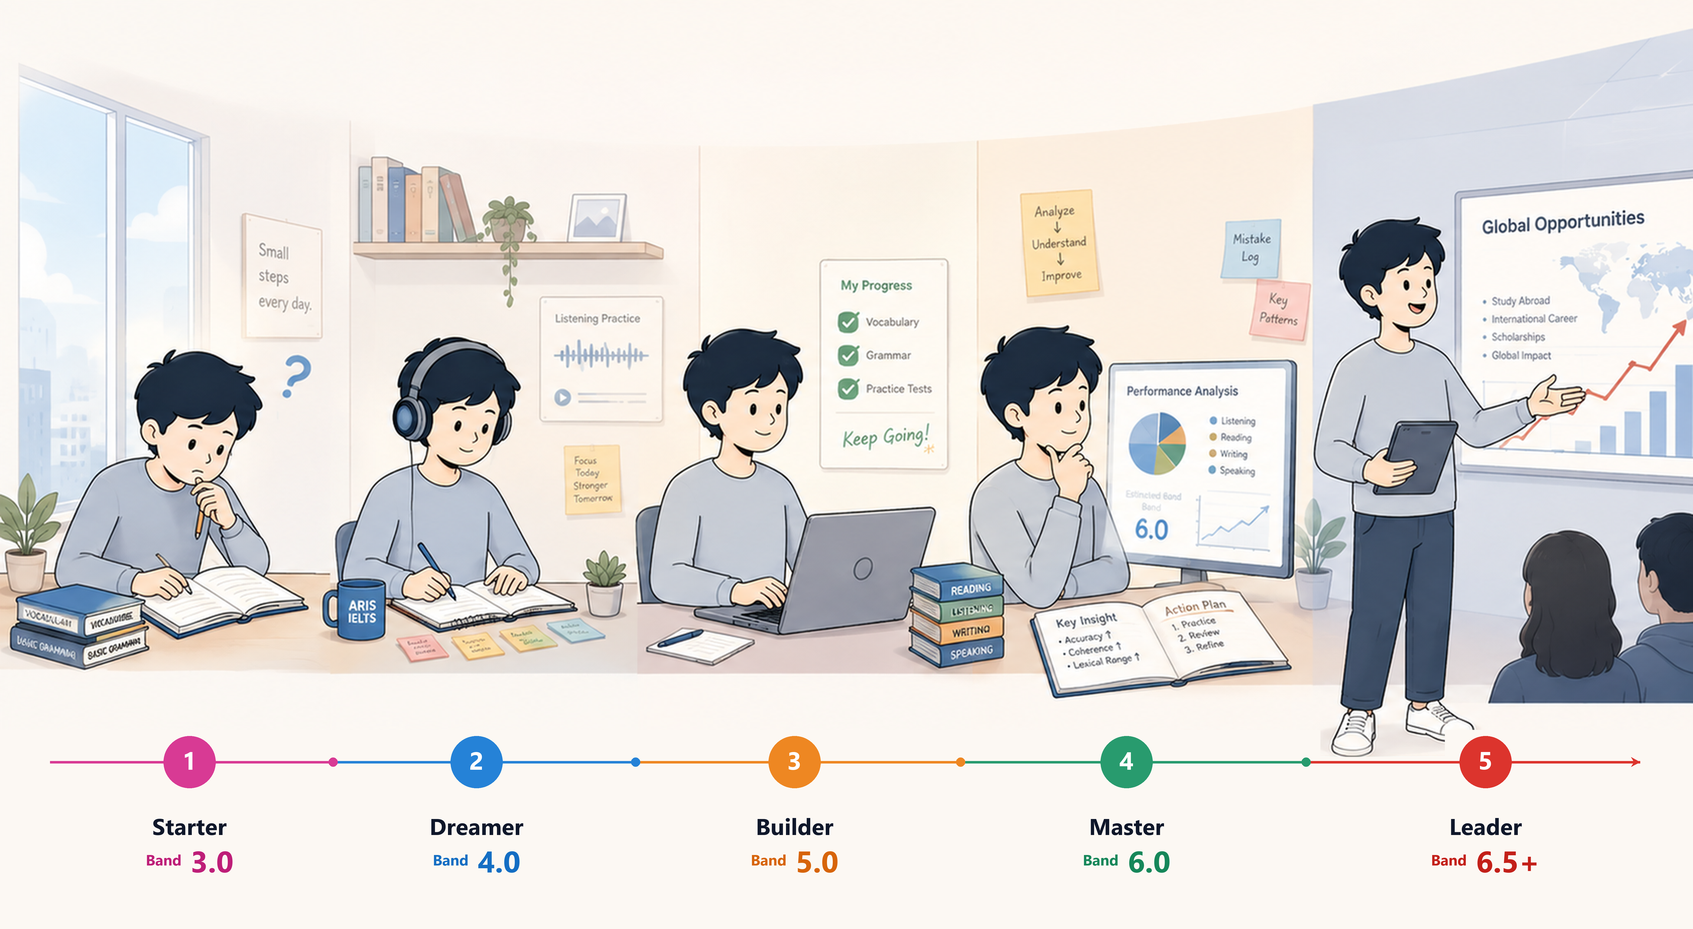
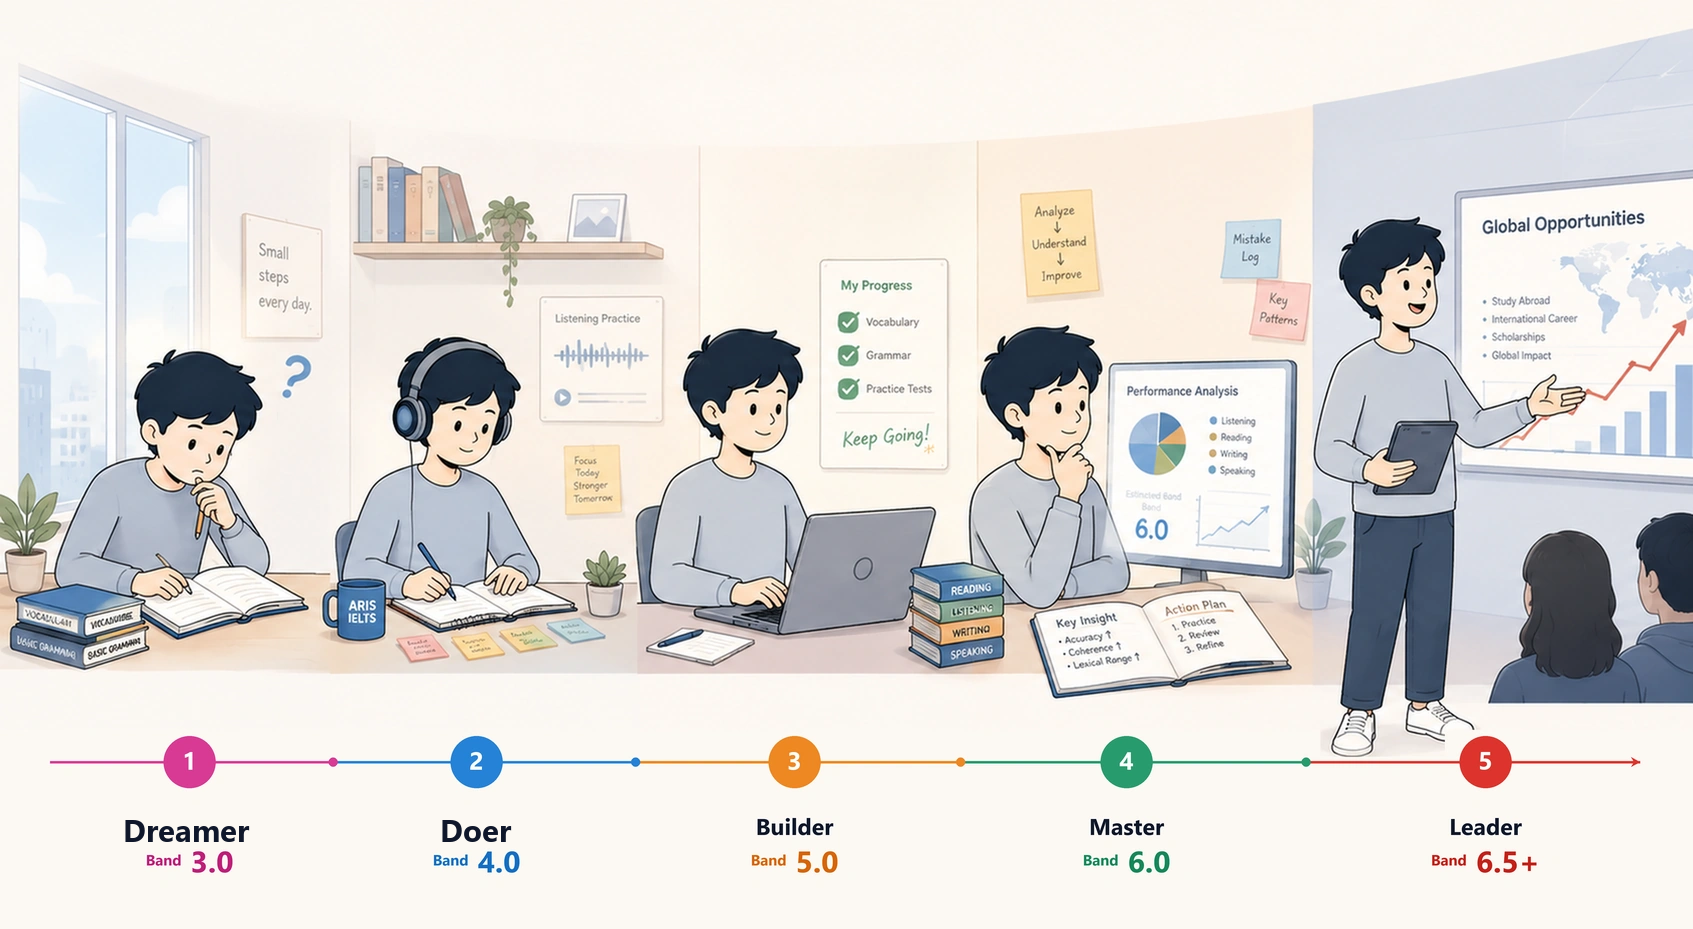
g

diff --git a/nextband/src/pages/public/PublicHomePage.tsx b/nextband/src/pages/public/PublicHomePage.tsx
@@ -30,7 +30,7 @@ export default function PublicHomePage() {
   const navigate = useNavigate();
 
   return (
-    <div className="flex flex-col">
+    <div className="flex flex-col bg-[#FBF9F5]">
       <SEO
         title="ARIS — Học Tiếng Anh Từ Bản Chất"
         description="ARIS — Học tiếng Anh từ bản chất. Không học mẹo. Không học thuộc bài mẫu. Định vị chính xác năng lực và bóc tách từng lỗi sai để đạt điểm IELTS mong muốn."
@@ -39,20 +39,25 @@ export default function PublicHomePage() {
       {/* ========================================================================= */}
       {/* SECTION 1: HERO SECTION                                                   */}
       {/* ========================================================================= */}
-      <section className="relative overflow-hidden pt-14 pb-20 sm:pt-24 sm:pb-32 border-b border-border/80 bg-gradient-to-br from-background via-background to-[#002147]/[0.03]">
-        <div className="mx-auto max-w-7xl px-4 sm:px-6 lg:px-8">
+      <section className="relative overflow-hidden pt-14 pb-20 sm:pt-20 sm:pb-28 border-b border-border/80 bg-[radial-gradient(ellipse_at_top_right,rgba(0,33,71,0.07)_0%,transparent_50%),radial-gradient(ellipse_at_bottom_left,rgba(220,38,38,0.05)_0%,transparent_45%)]">
+        {/* Soft Ambient Blur Spots */}
+        <div className="absolute top-10 right-10 w-96 h-96 bg-brand-blue/5 rounded-full blur-3xl pointer-events-none" />
+        <div className="absolute bottom-10 left-10 w-80 h-80 bg-brand-red/5 rounded-full blur-3xl pointer-events-none" />
+
+        <div className="mx-auto max-w-7xl px-4 sm:px-6 lg:px-8 relative z-10">
           <div className="grid grid-cols-1 lg:grid-cols-12 gap-12 lg:gap-10 items-center">
             {/* Left: Headline, Subheadline & Primary Action */}
             <div className="lg:col-span-7 space-y-7 text-left">
-              <div className="inline-flex items-center gap-2 px-4 py-1.5 rounded-full bg-brand-red-soft text-brand-red border border-brand-red/20 text-xs sm:text-sm font-extrabold uppercase tracking-wider">
+              <div className="inline-flex items-center gap-2 px-4 py-1.5 rounded-full bg-brand-red-soft text-brand-red border border-brand-red/20 text-xs sm:text-sm font-extrabold uppercase tracking-wider shadow-xs">
                 <GraduationCap className="h-4 w-4" />
                 <span>Học Viện ARIS</span>
               </div>
 
               <h1 className="text-4xl sm:text-5xl lg:text-6xl xl:text-[62px] font-black text-foreground tracking-tight leading-[1.12]">
                 Học tiếng Anh{" "}
-                <span className="text-brand-red underline decoration-brand-red/30 underline-offset-8">
-                  từ bản chất
+                <span className="relative inline-block text-brand-red font-black">
+                  <span className="relative z-10">từ bản chất</span>
+                  <span className="absolute left-0 right-0 bottom-2 h-3.5 bg-brand-red/15 -rotate-1 rounded-sm -z-0" />
                 </span>
                 .
                 <br />
@@ -70,7 +75,7 @@ export default function PublicHomePage() {
                 <Button
                   size="lg"
                   onClick={() => navigate("/assessment")}
-                  className="w-full sm:w-auto rounded-2xl px-6 sm:px-8 h-auto min-h-14 py-3 sm:py-0 font-extrabold text-base sm:text-lg bg-brand-red hover:bg-brand-red-hover text-brand-red-foreground shadow-sm gap-2.5 whitespace-normal text-center"
+                  className="w-full sm:w-auto rounded-2xl px-6 sm:px-8 h-auto min-h-14 py-3 sm:py-0 font-extrabold text-base sm:text-lg bg-brand-red hover:bg-brand-red-hover text-brand-red-foreground shadow-lg shadow-brand-red/20 gap-2.5 whitespace-normal text-center transition-all"
                 >
                   <span>Đánh giá năng lực miễn phí</span>
                   <ArrowRight className="h-5 w-5 shrink-0" />
@@ -80,7 +85,7 @@ export default function PublicHomePage() {
                   size="lg"
                   variant="outline"
                   onClick={() => navigate("/academic-system")}
-                  className="w-full sm:w-auto rounded-2xl px-6 sm:px-8 h-auto min-h-14 py-3 sm:py-0 font-bold text-base sm:text-lg border-2 border-[#002147]/20 hover:bg-[#002147]/5 text-foreground whitespace-normal text-center"
+                  className="w-full sm:w-auto rounded-2xl px-6 sm:px-8 h-auto min-h-14 py-3 sm:py-0 font-bold text-base sm:text-lg border-2 border-[#002147]/20 bg-background/80 hover:bg-[#002147]/5 text-foreground whitespace-normal text-center shadow-xs"
                 >
                   Khám phá hệ thống học thuật
                 </Button>
@@ -104,67 +109,100 @@ export default function PublicHomePage() {
             </div>
 
             {/* Right: 3-Question Framework Card */}
-            <div className="lg:col-span-5">
-              <div className="relative mx-auto max-w-md lg:max-w-none rounded-3xl border-2 border-[#002147]/15 bg-card p-7 sm:p-9 shadow-md space-y-6">
-                <div className="space-y-1.5 border-b border-border/70 pb-4">
-                  <span className="text-xs font-mono uppercase tracking-widest text-brand-blue font-extrabold">
-                    Khung Đào Tạo ARIS
+            <div className="lg:col-span-5 relative">
+              <div className="relative mx-auto max-w-md lg:max-w-none rounded-3xl border-2 border-white/80 bg-card/90 backdrop-blur-md p-7 sm:p-8 shadow-xl shadow-blue-950/5 space-y-5">
+                <div className="flex items-center justify-between border-b border-border/70 pb-4">
+                  <div className="space-y-1">
+                    <span className="text-xs font-mono uppercase tracking-widest text-brand-blue font-extrabold">
+                      Khung Đào Tạo ARIS
+                    </span>
+                    <h4 className="font-black text-foreground text-lg sm:text-xl">
+                      3 Trụ Cột Định Hình Tiến Bộ
+                    </h4>
+                  </div>
+                  <span className="px-3 py-1 rounded-xl bg-blue-50 text-brand-blue border border-blue-200/80 text-xs font-black">
+                    ARIS-7™
                   </span>
-                  <h4 className="font-black text-foreground text-lg sm:text-xl">
-                    3 Câu Hỏi Định Hình Sự Tiến Bộ
-                  </h4>
                 </div>
 
-                <div className="space-y-4">
-                  <div className="p-4 rounded-2xl border border-[#002147]/15 bg-[#002147]/[0.03] space-y-1.5 text-left">
-                    <div className="flex items-center gap-2.5 text-base font-extrabold text-foreground">
-                      <span className="h-7 w-7 rounded-xl bg-[#002147] text-white font-mono text-xs flex items-center justify-center font-black">
-                        1
-                      </span>
-                      <span>Bạn đang ở đâu?</span>
+                <div className="space-y-3.5">
+                  <div className="p-4 rounded-2xl border border-slate-200/80 bg-background/60 shadow-2xs space-y-1.5 text-left transition-all hover:border-brand-blue/30">
+                    <div className="flex items-center justify-between">
+                      <div className="flex items-center gap-2.5 text-base font-extrabold text-foreground">
+                        <span className="h-7 w-7 rounded-xl bg-[#002147] text-white font-mono text-xs flex items-center justify-center font-black">
+                          1
+                        </span>
+                        <span>Bạn đang ở đâu?</span>
+                      </div>
+                      <span className="text-[11px] font-semibold text-slate-500 bg-slate-100 px-2 py-0.5 rounded-md">Vị trí hiện tại</span>
                     </div>
-                    <p className="text-sm sm:text-[15px] text-foreground/75 leading-relaxed pl-9">
+                    <p className="text-sm text-foreground/75 leading-relaxed pl-9.5">
                       Định vị chính xác trình độ học thuật hiện tại trên thang đo 7 cấp bậc ARIS-7.
                     </p>
+                    <div className="pl-9.5 pt-1">
+                      <div className="w-full bg-slate-200/70 h-1.5 rounded-full overflow-hidden">
+                        <div className="bg-brand-blue h-full rounded-full" style={{ width: "45%" }} />
+                      </div>
+                    </div>
                   </div>
 
-                  <div className="p-4 rounded-2xl border border-[#002147]/15 bg-[#002147]/[0.03] space-y-1.5 text-left">
-                    <div className="flex items-center gap-2.5 text-base font-extrabold text-foreground">
-                      <span className="h-7 w-7 rounded-xl bg-[#002147] text-white font-mono text-xs flex items-center justify-center font-black">
-                        2
-                      </span>
-                      <span>Điều gì cản trở bạn?</span>
+                  <div className="p-4 rounded-2xl border border-brand-red/20 bg-brand-red-soft/40 shadow-2xs space-y-1.5 text-left">
+                    <div className="flex items-center justify-between">
+                      <div className="flex items-center gap-2.5 text-base font-extrabold text-brand-red">
+                        <span className="h-7 w-7 rounded-xl bg-brand-red text-white font-mono text-xs flex items-center justify-center font-black">
+                          2
+                        </span>
+                        <span>Điều gì cản trở bạn?</span>
+                      </div>
+                      <span className="text-[10px] font-extrabold text-brand-red bg-brand-red/10 px-2 py-0.5 rounded-full">Điểm nghẽn tư duy</span>
                     </div>
-                    <p className="text-sm sm:text-[15px] text-foreground/75 leading-relaxed pl-9">
+                    <p className="text-sm text-foreground/80 leading-relaxed pl-9.5">
                       Hệ thống Academic Diagnosis bóc tách chính xác từng lỗ hổng tư duy và dạng bài hay mắc lỗi.
                     </p>
+                    <div className="pl-9.5 pt-0.5 flex items-center gap-1.5 text-xs font-semibold text-brand-red">
+                      <span className="w-1.5 h-1.5 rounded-full bg-brand-red" />
+                      <span>Chỉ rõ cơ chế lỗi — Không nhận xét cảm tính</span>
+                    </div>
                   </div>
 
-                  <div className="p-4 rounded-2xl border border-[#002147]/15 bg-[#002147]/[0.03] space-y-1.5 text-left">
-                    <div className="flex items-center gap-2.5 text-base font-extrabold text-foreground">
-                      <span className="h-7 w-7 rounded-xl bg-[#002147] text-white font-mono text-xs flex items-center justify-center font-black">
-                        3
-                      </span>
-                      <span>Bước tiếp theo là gì?</span>
+                  <div className="p-4 rounded-2xl border border-slate-200/80 bg-background/60 shadow-2xs space-y-1.5 text-left transition-all hover:border-emerald-300">
+                    <div className="flex items-center justify-between">
+                      <div className="flex items-center gap-2.5 text-base font-extrabold text-foreground">
+                        <span className="h-7 w-7 rounded-xl bg-[#002147] text-white font-mono text-xs flex items-center justify-center font-black">
+                          3
+                        </span>
+                        <span>Bước tiếp theo là gì?</span>
+                      </div>
+                      <span className="text-[11px] font-semibold text-emerald-700 bg-emerald-50 px-2 py-0.5 rounded-md">Can thiệp trúng đích</span>
                     </div>
-                    <p className="text-sm sm:text-[15px] text-foreground/75 leading-relaxed pl-9">
+                    <p className="text-sm text-foreground/75 leading-relaxed pl-9.5">
                       Can thiệp trúng đích để thăng cấp trên thang đo ARIS-7, theo sát bởi giảng viên chuyên môn.
                     </p>
                   </div>
                 </div>
 
-                <div className="p-5 rounded-2xl bg-[#002147] text-white text-left space-y-2 shadow-2xs">
-                  <div className="text-base font-bold flex items-center gap-2">
-                    <ShieldCheck className="h-5 w-5 text-brand-cyan" />
-                    <span>Học có kỷ luật &amp; đo lường minh bạch</span>
+                <div className="p-4.5 rounded-2xl bg-[#001E3D] text-white text-left space-y-2 shadow-md">
+                  <div className="flex items-center justify-between">
+                    <div className="text-sm font-bold flex items-center gap-2">
+                      <ShieldCheck className="h-4.5 w-4.5 text-amber-300" />
+                      <span>Học có kỷ luật &amp; đo lường minh bạch</span>
+                    </div>
+                    <span className="text-[10px] font-black uppercase text-amber-300 bg-amber-400/20 px-2 py-0.5 rounded border border-amber-300/30">
+                      Live Sync
+                    </span>
                   </div>
-                  <p className="text-sm text-white/90 leading-relaxed">
-                    Mọi bài nộp được lưu trữ và chấm chữa chi tiết trên hệ thống để bạn thấy rõ sự tiến bộ qua từng ngày.
+                  <p className="text-xs text-white/85 leading-relaxed">
+                    Mọi bài nộp được lưu trữ và chấm chữa chi tiết trên hệ thống NextBand để bạn thấy rõ sự tiến bộ từng ngày.
                   </p>
-                  <div className="flex items-center gap-2 pt-1 text-white/75 text-xs font-semibold border-t border-white/15 mt-1">
-                    <Users className="h-3.5 w-3.5 text-brand-cyan shrink-0" />
-                    Tiến độ của bạn hiển thị cùng cả lớp — mỗi bài nộp là một bước leo hạng.
-                  </div>
+                </div>
+              </div>
+
+              {/* Floating Bottom Badge */}
+              <div className="hidden sm:flex absolute -bottom-4 -left-5 bg-card/95 backdrop-blur-md px-4 py-2.5 rounded-2xl shadow-xl border border-border items-center gap-2.5">
+                <span className="w-2.5 h-2.5 rounded-full bg-success animate-pulse" />
+                <div className="text-xs">
+                  <span className="font-extrabold text-foreground">NextBand Academic Record™</span>
+                  <span className="text-muted-foreground block text-[10px]">Minh bạch 100% hồ sơ học thuật</span>
                 </div>
               </div>
             </div>

diff --git a/nextband/src/components/public/ConsultationModals.tsx b/nextband/src/components/public/ConsultationModals.tsx
@@ -489,7 +489,7 @@ export function TrialClassModal({ isOpen, onOpenChange }: ModalBaseProps) {
   const [fullName, setFullName] = useState("");
   const [phone, setPhone] = useState("");
   const [learningMode, setLearningMode] = useState<"offline" | "online">("offline");
-  const [course, setCourse] = useState("STARTER (Mất gốc → 3.0)");
+  const [course, setCourse] = useState("DREAMER (Mất gốc → 3.0)");
   const [schedule, setSchedule] = useState("Tối Thứ 2 - 4 - 6 (Ca 1: 17:30 - 19:30)");
   const [loading, setLoading] = useState(false);
   const [isSubmitted, setIsSubmitted] = useState(false);
@@ -696,8 +696,8 @@ export function TrialClassModal({ isOpen, onOpenChange }: ModalBaseProps) {
                       <SelectValue placeholder="Chọn khóa học" />
                     </SelectTrigger>
                     <SelectContent className="rounded-xl">
-                      <SelectItem value="STARTER (Mất gốc → 3.0)">STARTER (Mất gốc → 3.0)</SelectItem>
-                      <SelectItem value="DREAMER (3.0 → 4.0)">DREAMER (3.0 → 4.0)</SelectItem>
+                      <SelectItem value="DREAMER (Mất gốc → 3.0)">DREAMER (Mất gốc → 3.0)</SelectItem>
+                      <SelectItem value="DOER (3.0 → 4.0)">DOER (3.0 → 4.0)</SelectItem>
                       <SelectItem value="BUILDER (4.0 → 5.0)">BUILDER (4.0 → 5.0)</SelectItem>
                       <SelectItem value="MASTER (5.0 → 6.0)">MASTER (5.0 → 6.0)</SelectItem>
                       <SelectItem value="LEADER (6.0 → 6.5+)">LEADER (6.0 → 6.5+)</SelectItem>

diff --git a/nextband/src/pages/auth/LoginPage.tsx b/nextband/src/pages/auth/LoginPage.tsx
@@ -216,7 +216,7 @@ export default function LoginPage() {
             <div className="w-full rounded-[24px] overflow-hidden shadow-xs border border-border/40">
               <img
                 src="/your-journey.webp"
-                alt="ARIS IELTS Learning Journey: Starter -> Dreamer -> Builder -> Master -> Leader"
+                alt="ARIS IELTS Learning Journey: Dreamer -> Doer -> Builder -> Master -> Leader"
                 className="w-full h-auto object-cover rounded-[24px] scale-100 hover:scale-[1.01] transition-transform duration-300"
                 loading="eager"
                 decoding="async"
@@ -344,10 +344,6 @@ export default function LoginPage() {
 
             {/* Password Login Form for Admin */}
             <div className="rounded-2xl bg-slate-50/70 dark:bg-slate-900/30 border border-slate-100 dark:border-slate-800/60 p-5">
-              <div className="flex items-center gap-1.5 text-xs font-bold text-slate-700 dark:text-slate-300 uppercase tracking-wide mb-3.5">
-                <Lock className="h-3.5 w-3.5 text-amber-500" />
-                <span>DÀNH CHO ADMIN</span>
-              </div>
               <form onSubmit={handleSignIn} className="space-y-4">
                 <div className="space-y-1.5">
                   <Label htmlFor="login-email" className="text-xs font-semibold text-foreground flex items-center gap-1.5">

diff --git a/nextband/src/constants/courses.ts b/nextband/src/constants/courses.ts
@@ -78,8 +78,8 @@ export const COURSE_CATALOG: Record<string, CourseData> = {
     id: "c1000000-0000-0000-0000-000000000007",
     slug: "starter",
     stageNumber: "Chặng 01",
-    title: "Khóa STARTER",
-    name: "STARTER",
+    title: "Khóa DREAMER",
+    name: "DREAMER",
     bandTarget: "Đầu ra 3.0",
     target: "Đầu vào: Mất gốc → Đầu ra: 3.0 (Rank 3)",
     rank: "Tương ứng Rank 3 — Học Đồ",
@@ -117,7 +117,7 @@ export const COURSE_CATALOG: Record<string, CourseData> = {
       "Phát âm chuẩn xác, không bị lai tạp âm tiếng Việt",
       "Tự tin viết và nói các câu đơn hoàn chỉnh đúng ngữ pháp",
       "Hiểu được các đoạn hội thoại giao tiếp thường ngày",
-      "Sẵn sàng bước vào chặng rèn luyện DREAMER",
+      "Sẵn sàng bước vào chặng rèn luyện DOER",
     ],
     theme: {
       primary: "#EE6873",
@@ -138,8 +138,8 @@ export const COURSE_CATALOG: Record<string, CourseData> = {
     id: "c1000000-0000-0000-0000-000000000006",
     slug: "dreamer",
     stageNumber: "Chặng 02",
-    title: "Khóa DREAMER",
-    name: "DREAMER",
+    title: "Khóa DOER",
+    name: "DOER",
     bandTarget: "3.0 → 4.0",
     target: "Đầu vào: 3.0 → Đầu ra: 4.0 (Rank 4)",
     rank: "Tương ứng Rank 4 — Học Sĩ",

diff --git a/nextband/src/components/public/QuickTrialModal.tsx b/nextband/src/components/public/QuickTrialModal.tsx
@@ -191,8 +191,8 @@ export function QuickTrialModal({
                       <SelectValue placeholder="Chọn khóa học" />
                     </SelectTrigger>
                     <SelectContent className="rounded-xl">
-                      <SelectItem value="starter">Khóa STARTER (Mất gốc → 3.0) — 4.500.000đ</SelectItem>
-                      <SelectItem value="dreamer">Khóa DREAMER (3.0 → 4.0) — 5.000.000đ</SelectItem>
+                      <SelectItem value="starter">Khóa DREAMER (Mất gốc → 3.0) — 4.500.000đ</SelectItem>
+                      <SelectItem value="dreamer">Khóa DOER (3.0 → 4.0) — 5.000.000đ</SelectItem>
                       <SelectItem value="builder">Khóa BUILDER (4.0 → 5.0) — 5.500.000đ</SelectItem>
                       <SelectItem value="master">Khóa MASTER (5.0 → 6.0) — 6.000.000đ</SelectItem>
                       <SelectItem value="leader">Khóa LEADER (6.0 → 6.5+) — 7.000.000đ</SelectItem>

diff --git a/nextband/src/components/public/PublicHeader.tsx b/nextband/src/components/public/PublicHeader.tsx
@@ -38,8 +38,8 @@ const PUBLIC_NAV_ITEMS: NavItem[] = [
       { label: "Khảo thí năng lực", href: "/assessment", badge: "Test 4 kỹ năng" },
       { label: "Lộ trình học tổng quan", href: "/courses" },
       { label: "DIVIDER", href: "", isDivider: true },
-      { label: "Khóa STARTER (Mất gốc → 3.0)", href: "/courses/starter" },
-      { label: "Khóa DREAMER (3.0 → 4.5)", href: "/courses/dreamer" },
+      { label: "Khóa DREAMER (Mất gốc → 3.0)", href: "/courses/starter" },
+      { label: "Khóa DOER (3.0 → 4.5)", href: "/courses/dreamer" },
       { label: "Khóa BUILDER (4.5 → 5.5)", href: "/courses/builder" },
       { label: "Khóa MASTER (5.5 → 6.5)", href: "/courses/master" },
       { label: "Khóa LEADER (6.5 → 7.5+)", href: "/courses/leader" },

diff --git a/nextband/src/pages/public/CoursesPage.tsx b/nextband/src/pages/public/CoursesPage.tsx
@@ -31,7 +31,7 @@ export default function CoursesPage() {
     <div className="flex flex-col">
       <SEO
         title="5 Chương Trình Đào Tạo IELTS — Học Viện ARIS"
-        description="Lộ trình 5 khóa học IELTS từ mất gốc đến 6.5+ tại ARIS: Starter, Dreamer, Builder, Master và Leader, kết nối trực tiếp với hệ thống 7 cấp bậc ARIS-7."
+        description="Lộ trình 5 khóa học IELTS từ mất gốc đến 6.5+ tại ARIS: Dreamer, Doer, Builder, Master và Leader, kết nối trực tiếp với hệ thống 7 cấp bậc ARIS-7."
       />
 
       {/* Hero Header */}

diff --git a/nextband/src/components/public/TuitionCalculator.tsx b/nextband/src/components/public/TuitionCalculator.tsx
@@ -32,8 +32,8 @@ const COURSES_SEQUENCE = ["starter", "dreamer", "builder", "master", "leader"] a
 type CourseKey = (typeof COURSES_SEQUENCE)[number];
 
 const COURSE_NAMES: Record<CourseKey, string> = {
-  starter: "STARTER",
-  dreamer: "DREAMER",
+  starter: "DREAMER",
+  dreamer: "DOER",
   builder: "BUILDER",
   master: "MASTER",
   leader: "LEADER",
